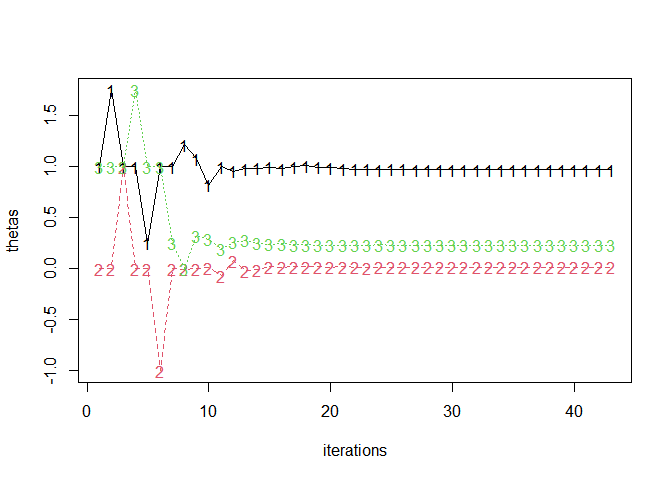
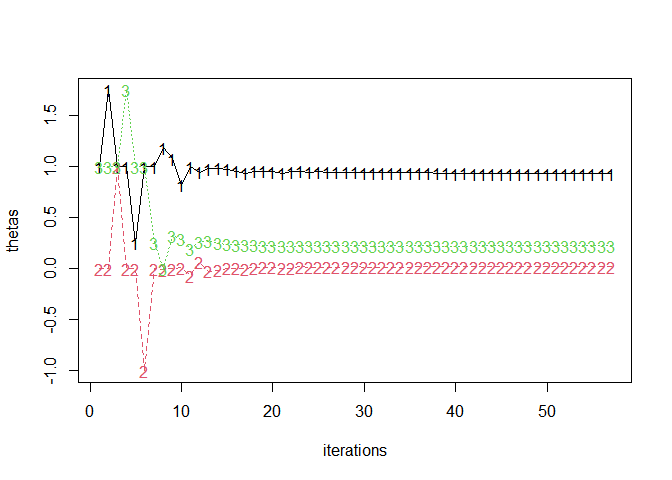
refactor format/print

diff --git a/README.md b/README.md
@@ -70,9 +70,9 @@ via `jlm()` and `jlmer()`, respectively.
 jlm(mpg ~ hp, mtcars)
 #> <Julia object of type StatsModels.TableRegressionModel>
 #> 
-#> mpg ~ 1 + hp 
+#> mpg ~ 1 + hp
 #> 
-#>  ────────────────────────────────────────────────────────────────────────────
+#> ────────────────────────────────────────────────────────────────────────────
 #>                   Coef.  Std. Error      z  Pr(>|z|)   Lower 95%   Upper 95%
 #> ────────────────────────────────────────────────────────────────────────────
 #> (Intercept)  30.0989      1.63392    18.42    <1e-75  26.8964     33.3013
@@ -96,9 +96,9 @@ colnames(contrasts(x$cyl_helm)) <- c("4vs6", "4&6vs8")
 jlm(mpg ~ am_sum + cyl_helm, x)
 #> <Julia object of type StatsModels.TableRegressionModel>
 #> 
-#> mpg ~ 1 + am_sum + cyl_helm 
+#> mpg ~ 1 + am_sum + cyl_helm
 #> 
-#>  ───────────────────────────────────────────────────────────────────────────────
+#> ───────────────────────────────────────────────────────────────────────────────
 #>                      Coef.  Std. Error      z  Pr(>|z|)  Lower 95%    Upper 95%
 #> ───────────────────────────────────────────────────────────────────────────────
 #> (Intercept)       20.6739     0.572633  36.10    <1e-99   19.5516   21.7963
@@ -113,7 +113,7 @@ jlm(mpg ~ am_sum + cyl_helm, x)
 `jlmer()` with `lmer()`/`glmer()` syntax:
 
 ``` r
-# lme4::lmer(Reaction ~ Days + (Days | Subject), sleepstudy)
+# lme4::lmer(Reaction ~ Days + (Days | Subject), lme4::sleepstudy)
 jlmer(Reaction ~ Days + (Days | Subject), lme4::sleepstudy, REML = TRUE)
 #> <Julia object of type LinearMixedModel>
 #> 
@@ -138,7 +138,7 @@ jlmer(Reaction ~ Days + (Days | Subject), lme4::sleepstudy, REML = TRUE)
 ```
 
 ``` r
-# lme4::glmer(r2 ~ Anger + Gender + (1 | id), VerbAgg, family = "binomial")
+# lme4::glmer(r2 ~ Anger + Gender + (1 | id), lme4::VerbAgg, family = "binomial")
 jlmer(r2 ~ Anger + Gender + (1 | id), lme4::VerbAgg, family = "binomial")
 #> <Julia object of type GeneralizedLinearMixedModel>
 #> 
@@ -178,18 +178,19 @@ regression models.
 Get information about model components with `tidy()`
 
 ``` r
-jmod <- jlmer(Reaction ~ Days + (Days | Subject), lme4::sleepstudy, REML = TRUE)
+# Note that MixedModels/`jlmer()` defaults to ML (REML=false)
+jmod <- jlmer(Reaction ~ Days + (Days | Subject), lme4::sleepstudy)
 tidy(jmod)
 #>      effect    group                  term     estimate std.error statistic
-#> 1     fixed     <NA>           (Intercept) 251.40510485  6.824597 36.838090
-#> 2     fixed     <NA>                  Days  10.46728596  1.545790  6.771481
-#> 12 ran_pars  Subject       sd__(Intercept)  24.74065797        NA        NA
-#> 3  ran_pars  Subject cor__(Intercept).Days   0.06555124        NA        NA
-#> 21 ran_pars  Subject              sd__Days   5.92213766        NA        NA
-#> 11 ran_pars Residual       sd__Observation  25.59179572        NA        NA
+#> 1     fixed     <NA>           (Intercept) 251.40510485  6.632258 37.906414
+#> 2     fixed     <NA>                  Days  10.46728596  1.502236  6.967806
+#> 12 ran_pars  Subject       sd__(Intercept)  23.78046792        NA        NA
+#> 3  ran_pars  Subject cor__(Intercept).Days   0.08133207        NA        NA
+#> 21 ran_pars  Subject              sd__Days   5.71682816        NA        NA
+#> 11 ran_pars Residual       sd__Observation  25.59182388        NA        NA
 #>          p.value
-#> 1  4.537101e-297
-#> 2   1.274703e-11
+#> 1  2.017794e-314
+#> 2   3.219214e-12
 #> 12            NA
 #> 3             NA
 #> 21            NA
@@ -200,8 +201,8 @@ Get goodness-of-fit measures of a model with `glance()`
 
 ``` r
 glance(jmod)
-#>   nobs df   sigma logLik AIC BIC deviance df.residual
-#> 1  180  6 25.5918     NA  NA  NA 1743.628         174
+#>   nobs df    sigma    logLik      AIC      BIC deviance df.residual
+#> 1  180  6 25.59182 -875.9697 1763.939 1783.097 1751.939         174
 ```
 
 ### Inspect model objects
@@ -232,7 +233,7 @@ Check optimization summary
 jmod$optsum
 #> <Julia object of type OptSummary{Float64}>
 #> Initial parameter vector: [1.0, 0.0, 1.0]
-#> Initial objective value:  1773.6803306160236
+#> Initial objective value:  1784.642296192471
 #> 
 #> Optimizer (from NLopt):   LN_BOBYQA
 #> Lower bounds:             [0.0, -Inf, 0.0]
@@ -244,9 +245,9 @@ jmod$optsum
 #> maxfeval:                 -1
 #> maxtime:                  -1.0
 #> 
-#> Function evaluations:     43
-#> Final parameter vector:   [0.9667417730750263, 0.015169059007472414, 0.23090995314561083]
-#> Final objective value:    1743.6282719599653
+#> Function evaluations:     57
+#> Final parameter vector:   [0.9292213025841999, 0.018168360086059557, 0.22264488361408383]
+#> Final objective value:    1751.9393444646894
 #> Return code:              FTOL_REACHED
 ```
 
@@ -268,28 +269,28 @@ samp <- parametricbootstrap(jmod, nsim = 100L, seed = 42L)
 samp
 #> <Julia object of type MixedModelBootstrap{Float64}>
 #> MixedModelBootstrap with 100 samples
-#>      parameter  min        q25         median     mean        q75       max
+#>      parameter  min        q25         median     mean       q75        max
 #>    ┌────────────────────────────────────────────────────────────────────────────
-#>  1 │ β1         227.464    246.465     250.903    250.985     256.233   264.878
-#>  2 │ β2         6.58801    9.89368     10.8208    10.6993     11.6945   13.8613
-#>  3 │ σ          21.6868    24.6505     25.6221    25.8474     26.7382   30.599
-#>  4 │ σ1         3.8862     19.5019     24.0707    23.3628     27.4161   34.0508
-#>  5 │ σ2         1.95071    4.90943     5.76106    5.87793     6.79344   8.91558
-#>  6 │ ρ1         -0.731594  -0.237908   0.0869573  0.0721882   0.345545  1.0
-#>  7 │ θ1         0.158198   0.742099    0.909455   0.90867     1.10008   1.37666
-#>  8 │ θ2         -0.193011  -0.0589132  0.0187871  0.00940508  0.065209  0.213878
-#>  9 │ θ3         0.0        0.170507    0.211006   0.206231    0.255929  0.357972
+#>  1 │ β1         228.0      246.58      250.863    250.977    256.082    264.406
+#>  2 │ β2         6.72055    9.91274     10.8382    10.696     11.6725    13.7769
+#>  3 │ σ          21.6856    24.6536     25.6211    25.838     26.7439    30.5968
+#>  4 │ σ1         3.57556    17.8908     22.1421    21.5799    25.6259    31.9446
+#>  5 │ σ2         1.63637    4.53406     5.36349    5.47536    6.38651    8.34052
+#>  6 │ ρ1         -0.739267  -0.226513   0.120712   0.107686   0.389495   1.0
+#>  7 │ θ1         0.146373   0.675859    0.845334   0.839596   1.02343    1.29287
+#>  8 │ θ2         -0.18147   -0.0508505  0.0248657  0.0155747  0.0708033  0.226194
+#>  9 │ θ3         0.0        0.156785    0.193042   0.188678   0.238505   0.334108
 ```
 
 ``` r
 tidy(samp)
-#>     effect    group                  term     estimate   conf.low   conf.high
-#> 1    fixed     <NA>           (Intercept) 251.40510485 240.638031 263.5578907
-#> 2    fixed     <NA>                  Days  10.46728596   7.635654  13.6199271
-#> 5 ran_pars  Subject       sd__(Intercept)  24.74065797  14.054638  34.0507880
-#> 4 ran_pars  Subject cor__(Intercept).Days   0.06555124  -0.697758   0.8805016
-#> 6 ran_pars  Subject              sd__Days   5.92213766   3.643931   8.2409621
-#> 3 ran_pars Residual       sd__Observation  25.59179572  22.497355  29.2889311
+#>     effect    group                  term     estimate    conf.low  conf.high
+#> 1    fixed     <NA>           (Intercept) 251.40510485 240.8972974 263.280668
+#> 2    fixed     <NA>                  Days  10.46728596   7.7302901  13.540729
+#> 5 ran_pars  Subject       sd__(Intercept)  23.78046792  12.5974975  31.944579
+#> 4 ran_pars  Subject cor__(Intercept).Days   0.08133207  -0.5948863   1.000000
+#> 6 ran_pars  Subject              sd__Days   5.71682816   3.6653412   8.073549
+#> 3 ran_pars Residual       sd__Observation  25.59182388  22.4968576  29.124647
 ```
 
 ### Profiling
@@ -302,37 +303,37 @@ via `profilelikelihood()`:
 prof <- profilelikelihood(jmod)
 prof
 #> <Julia object of type MixedModelProfile{Float64}>
-#> MixedModelProfile -- Table with 11 columns and 161 rows:
+#> MixedModelProfile -- Table with 11 columns and 176 rows:
 #>       p  ζ          β1       β2       σ        σ1       σ2       ρ1           ⋯
 #>     ┌──────────────────────────────────────────────────────────────────────────
-#>  1  │ σ  -4.36538   251.405  10.4673  20.1929  26.4095  6.16993  -0.0238061   ⋯
-#>  2  │ σ  -3.77934   251.405  10.4673  20.7999  26.2464  6.14557  -0.0156245   ⋯
-#>  3  │ σ  -3.20553   251.405  10.4673  21.4252  26.0716  6.11928  -0.00675932  ⋯
-#>  4  │ σ  -2.64359   251.405  10.4673  22.0692  25.8859  6.0915   0.00286329   ⋯
-#>  5  │ σ  -2.09316   251.405  10.4673  22.7326  25.6871  6.06188  0.0132691    ⋯
-#>  6  │ σ  -1.55392   251.405  10.4673  23.416   25.4744  6.03027  0.0246523    ⋯
-#>  7  │ σ  -1.02552   251.405  10.4673  24.1199  25.2448  5.99673  0.0371101    ⋯
-#>  8  │ σ  -0.507654  251.405  10.4673  24.8449  25.0016  5.9606   0.0505964    ⋯
-#>  9  │ σ  0.0        251.405  10.4673  25.5918  24.7407  5.92214  0.0655512    ⋯
-#>  10 │ σ  0.497702   251.405  10.4673  26.3611  24.4599  5.88109  0.0819128    ⋯
-#>  11 │ σ  0.985782   251.405  10.4673  27.1535  24.1585  5.83716  0.0999603    ⋯
-#>  12 │ σ  1.46451    251.405  10.4673  27.9698  23.8346  5.79033  0.119931     ⋯
-#>  13 │ σ  1.93415    251.405  10.4673  28.8106  23.4862  5.74019  0.142062     ⋯
-#>  14 │ σ  2.39497    251.405  10.4673  29.6766  23.111   5.68632  0.166822     ⋯
-#>  15 │ σ  2.84722    251.405  10.4673  30.5687  22.7061  5.62889  0.194353     ⋯
-#>  16 │ σ  3.29116    251.405  10.4673  31.4877  22.267   5.5671   0.225568     ⋯
-#>  17 │ σ  3.72701    251.405  10.4673  32.4342  21.7928  5.50064  0.260712     ⋯
+#>  1  │ σ  -4.365     251.405  10.4673  20.1933  25.5128  5.97319  -0.0159232   ⋯
+#>  2  │ σ  -3.77902   251.405  10.4673  20.8002  25.3434  5.94786  -0.00711109  ⋯
+#>  3  │ σ  -3.20526   251.405  10.4673  21.4255  25.1627  5.92133  0.00263598   ⋯
+#>  4  │ σ  -2.64336   251.405  10.4673  22.0695  24.9702  5.89214  0.0129078    ⋯
+#>  5  │ σ  -2.09298   251.405  10.4673  22.7328  24.7636  5.86167  0.0241968    ⋯
+#>  6  │ σ  -1.55378   251.405  10.4673  23.4162  24.5426  5.82871  0.0366992    ⋯
+#>  7  │ σ  -1.02542   251.405  10.4673  24.12    24.3063  5.79389  0.0501628    ⋯
+#>  8  │ σ  -0.507597  251.405  10.4673  24.845   24.0525  5.75669  0.0649969    ⋯
+#>  9  │ σ  0.0        251.405  10.4673  25.5918  23.7805  5.71683  0.0813321    ⋯
+#>  10 │ σ  0.497684   251.405  10.4673  26.3611  23.4885  5.6743   0.0993046    ⋯
+#>  11 │ σ  0.985728   251.405  10.4673  27.1534  23.1743  5.62882  0.119204     ⋯
+#>  12 │ σ  1.46442    251.405  10.4673  27.9696  22.836   5.5802   0.141262     ⋯
+#>  13 │ σ  1.93402    251.405  10.4673  28.8104  22.4727  5.52809  0.165869     ⋯
+#>  14 │ σ  2.39481    251.405  10.4673  29.6763  22.0799  5.47226  0.193415     ⋯
+#>  15 │ σ  2.84704    251.405  10.4673  30.5684  21.6557  5.41243  0.224387     ⋯
+#>  16 │ σ  3.29094    251.405  10.4673  31.4872  21.196   5.34818  0.259442     ⋯
+#>  17 │ σ  3.72677    251.405  10.4673  32.4337  20.6956  5.27882  0.299408     ⋯
 #>  ⋮  │ ⋮      ⋮         ⋮        ⋮        ⋮        ⋮        ⋮          ⋮       ⋱
 ```
 
 ``` r
 tidy(prof)
 #>      effect    group            term   estimate   conf.low  conf.high
-#> 1     fixed     <NA>     (Intercept) 251.405105 239.501474 263.308736
-#> 2     fixed     <NA>            Days  10.467286   7.771047  13.163525
-#> 12 ran_pars  Subject sd__(Intercept)  24.740658  15.032045  39.512036
-#> 21 ran_pars  Subject        sd__Days   5.922138   0.000000   9.151901
-#> 11 ran_pars Residual sd__Observation  25.591796  22.898262  28.858000
+#> 1     fixed     <NA>     (Intercept) 251.405105 237.680694 265.129516
+#> 2     fixed     <NA>            Days  10.467286   7.358653  13.575919
+#> 12 ran_pars  Subject sd__(Intercept)  23.780468  14.381431  37.718099
+#> 21 ran_pars  Subject        sd__Days   5.716828   0.000000   8.753389
+#> 11 ran_pars Residual sd__Observation  25.591824  22.898262  28.858001
 ```
 
 ## Julia interoperability
@@ -348,13 +349,13 @@ Example 1: extract PCA of random effects and return as an R list:
 ``` r
 jmod$rePCA
 #> <Julia object of type @NamedTuple{Subject::Vector{Float64}}>
-#> (Subject = [0.5327756193675971, 1.0],)
+#> (Subject = [0.5406660352881864, 1.0],)
 ```
 
 ``` r
 jl_get(jmod$rePCA)
 #> $Subject
-#> [1] 0.5327756 1.0000000
+#> [1] 0.540666 1.000000
 ```
 
 Example 2: extract fitlog and plot
@@ -398,7 +399,7 @@ jlme_status()
 #>   LIBM: libopenlibm
 #>   LLVM: libLLVM-15.0.7 (ORCJIT, tigerlake)
 #> Threads: 1 default, 0 interactive, 1 GC (on 8 virtual cores)
-#> Status `C:\Users\jchoe\AppData\Local\Temp\jl_2BbJmj\Project.toml`
+#> Status `C:\Users\jchoe\AppData\Local\Temp\jl_GU3Fv7\Project.toml`
 #>   [38e38edf] GLM v1.9.0
 #>   [ff71e718] MixedModels v4.26.0
 #>   [3eaba693] StatsModels v0.7.4
@@ -540,8 +541,8 @@ print(jmod, format = "markdown")
 
 |             |     Est. |     SE |     z |       p | σ_Subject |
 |:------------|---------:|-------:|------:|--------:|----------:|
-| (Intercept) | 251.4051 | 6.8246 | 36.84 | \<1e-99 |   24.7407 |
-| Days        |  10.4673 | 1.5458 |  6.77 | \<1e-10 |    5.9221 |
+| (Intercept) | 251.4051 | 6.6323 | 37.91 | \<1e-99 |   23.7805 |
+| Days        |  10.4673 | 1.5022 |  6.97 | \<1e-11 |    5.7168 |
 | Residual    |  25.5918 |        |       |         |           |
 
 ### Data type conversion
@@ -591,9 +592,9 @@ data_julia <- jl_data(data_r[, c("mpg", "am")])
 jlm(mpg ~ am, data_julia)
 #> <Julia object of type StatsModels.TableRegressionModel>
 #> 
-#> mpg ~ 1 + am 
+#> mpg ~ 1 + am
 #> 
-#>  ────────────────────────────────────────────────────────────────────────
+#> ────────────────────────────────────────────────────────────────────────
 #>                 Coef.  Std. Error      z  Pr(>|z|)  Lower 95%  Upper 95%
 #> ────────────────────────────────────────────────────────────────────────
 #> (Intercept)  17.1474      1.1246   15.25    <1e-51   14.9432     19.3515
@@ -614,9 +615,9 @@ contrasts_julia <- jl_contrasts(data_r)
 jlm(mpg ~ am, data_julia, contrasts = contrasts_julia)
 #> <Julia object of type StatsModels.TableRegressionModel>
 #> 
-#> mpg ~ 1 + am 
+#> mpg ~ 1 + am
 #> 
-#>  ────────────────────────────────────────────────────────────────────────
+#> ────────────────────────────────────────────────────────────────────────
 #>                 Coef.  Std. Error      z  Pr(>|z|)  Lower 95%  Upper 95%
 #> ────────────────────────────────────────────────────────────────────────
 #> (Intercept)  20.7698     0.882211  23.54    <1e-99   19.0407    22.4989
